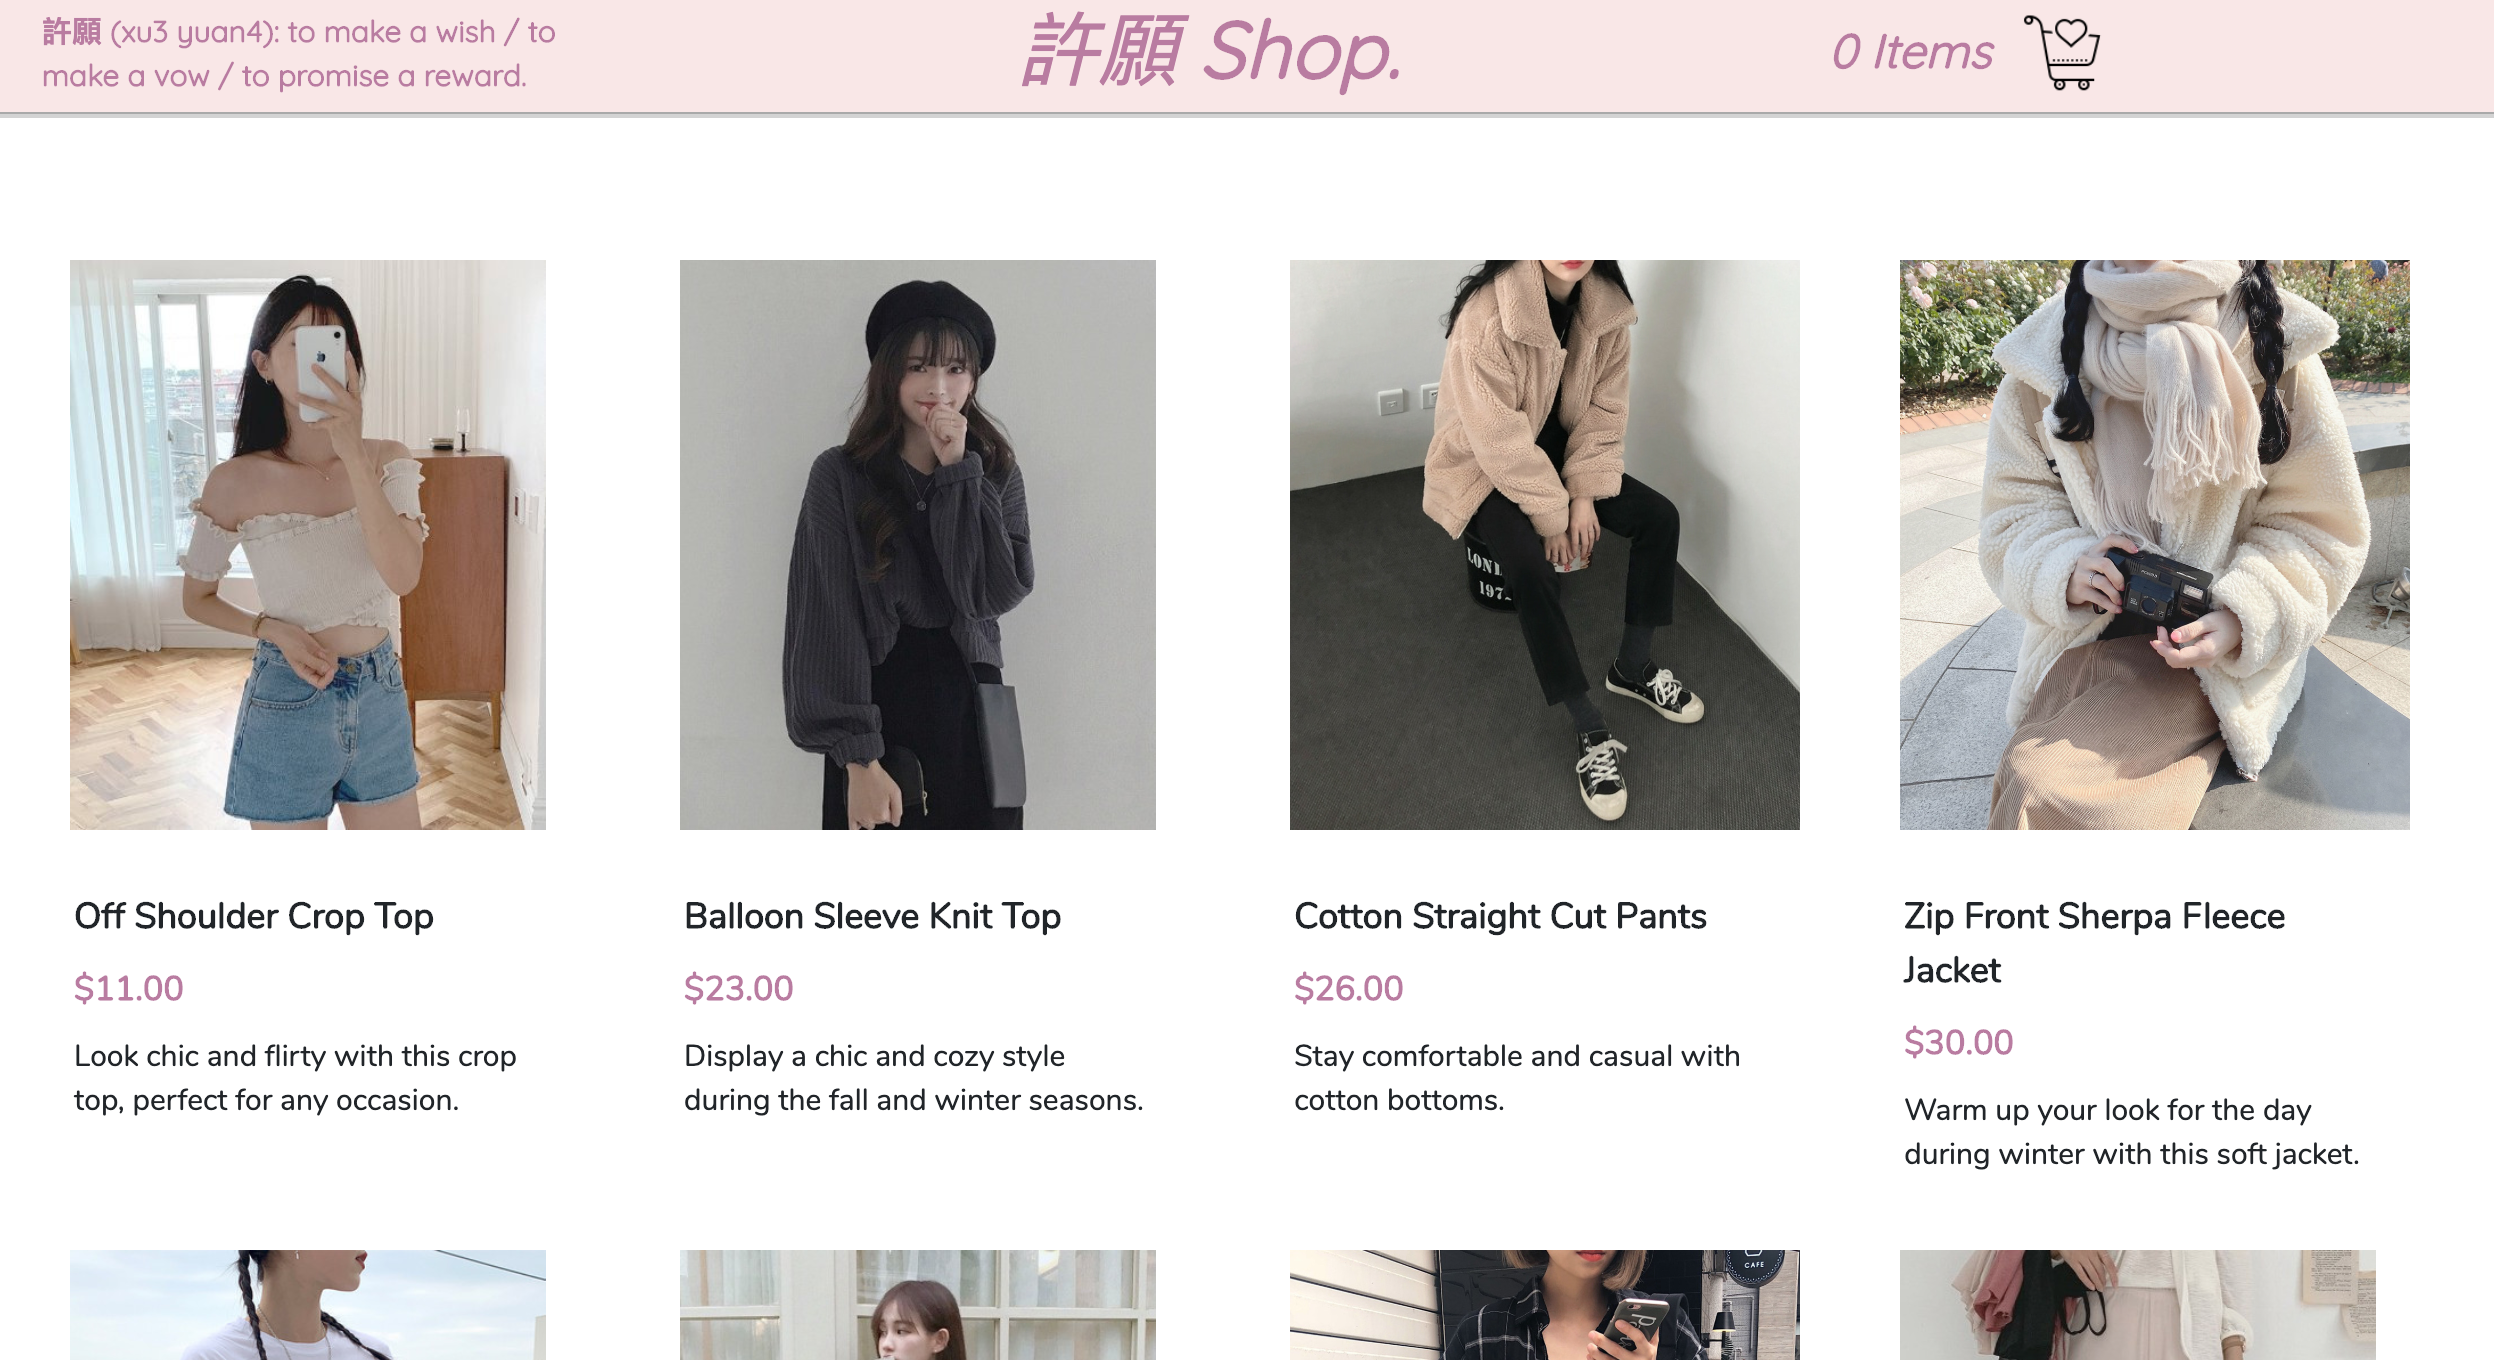
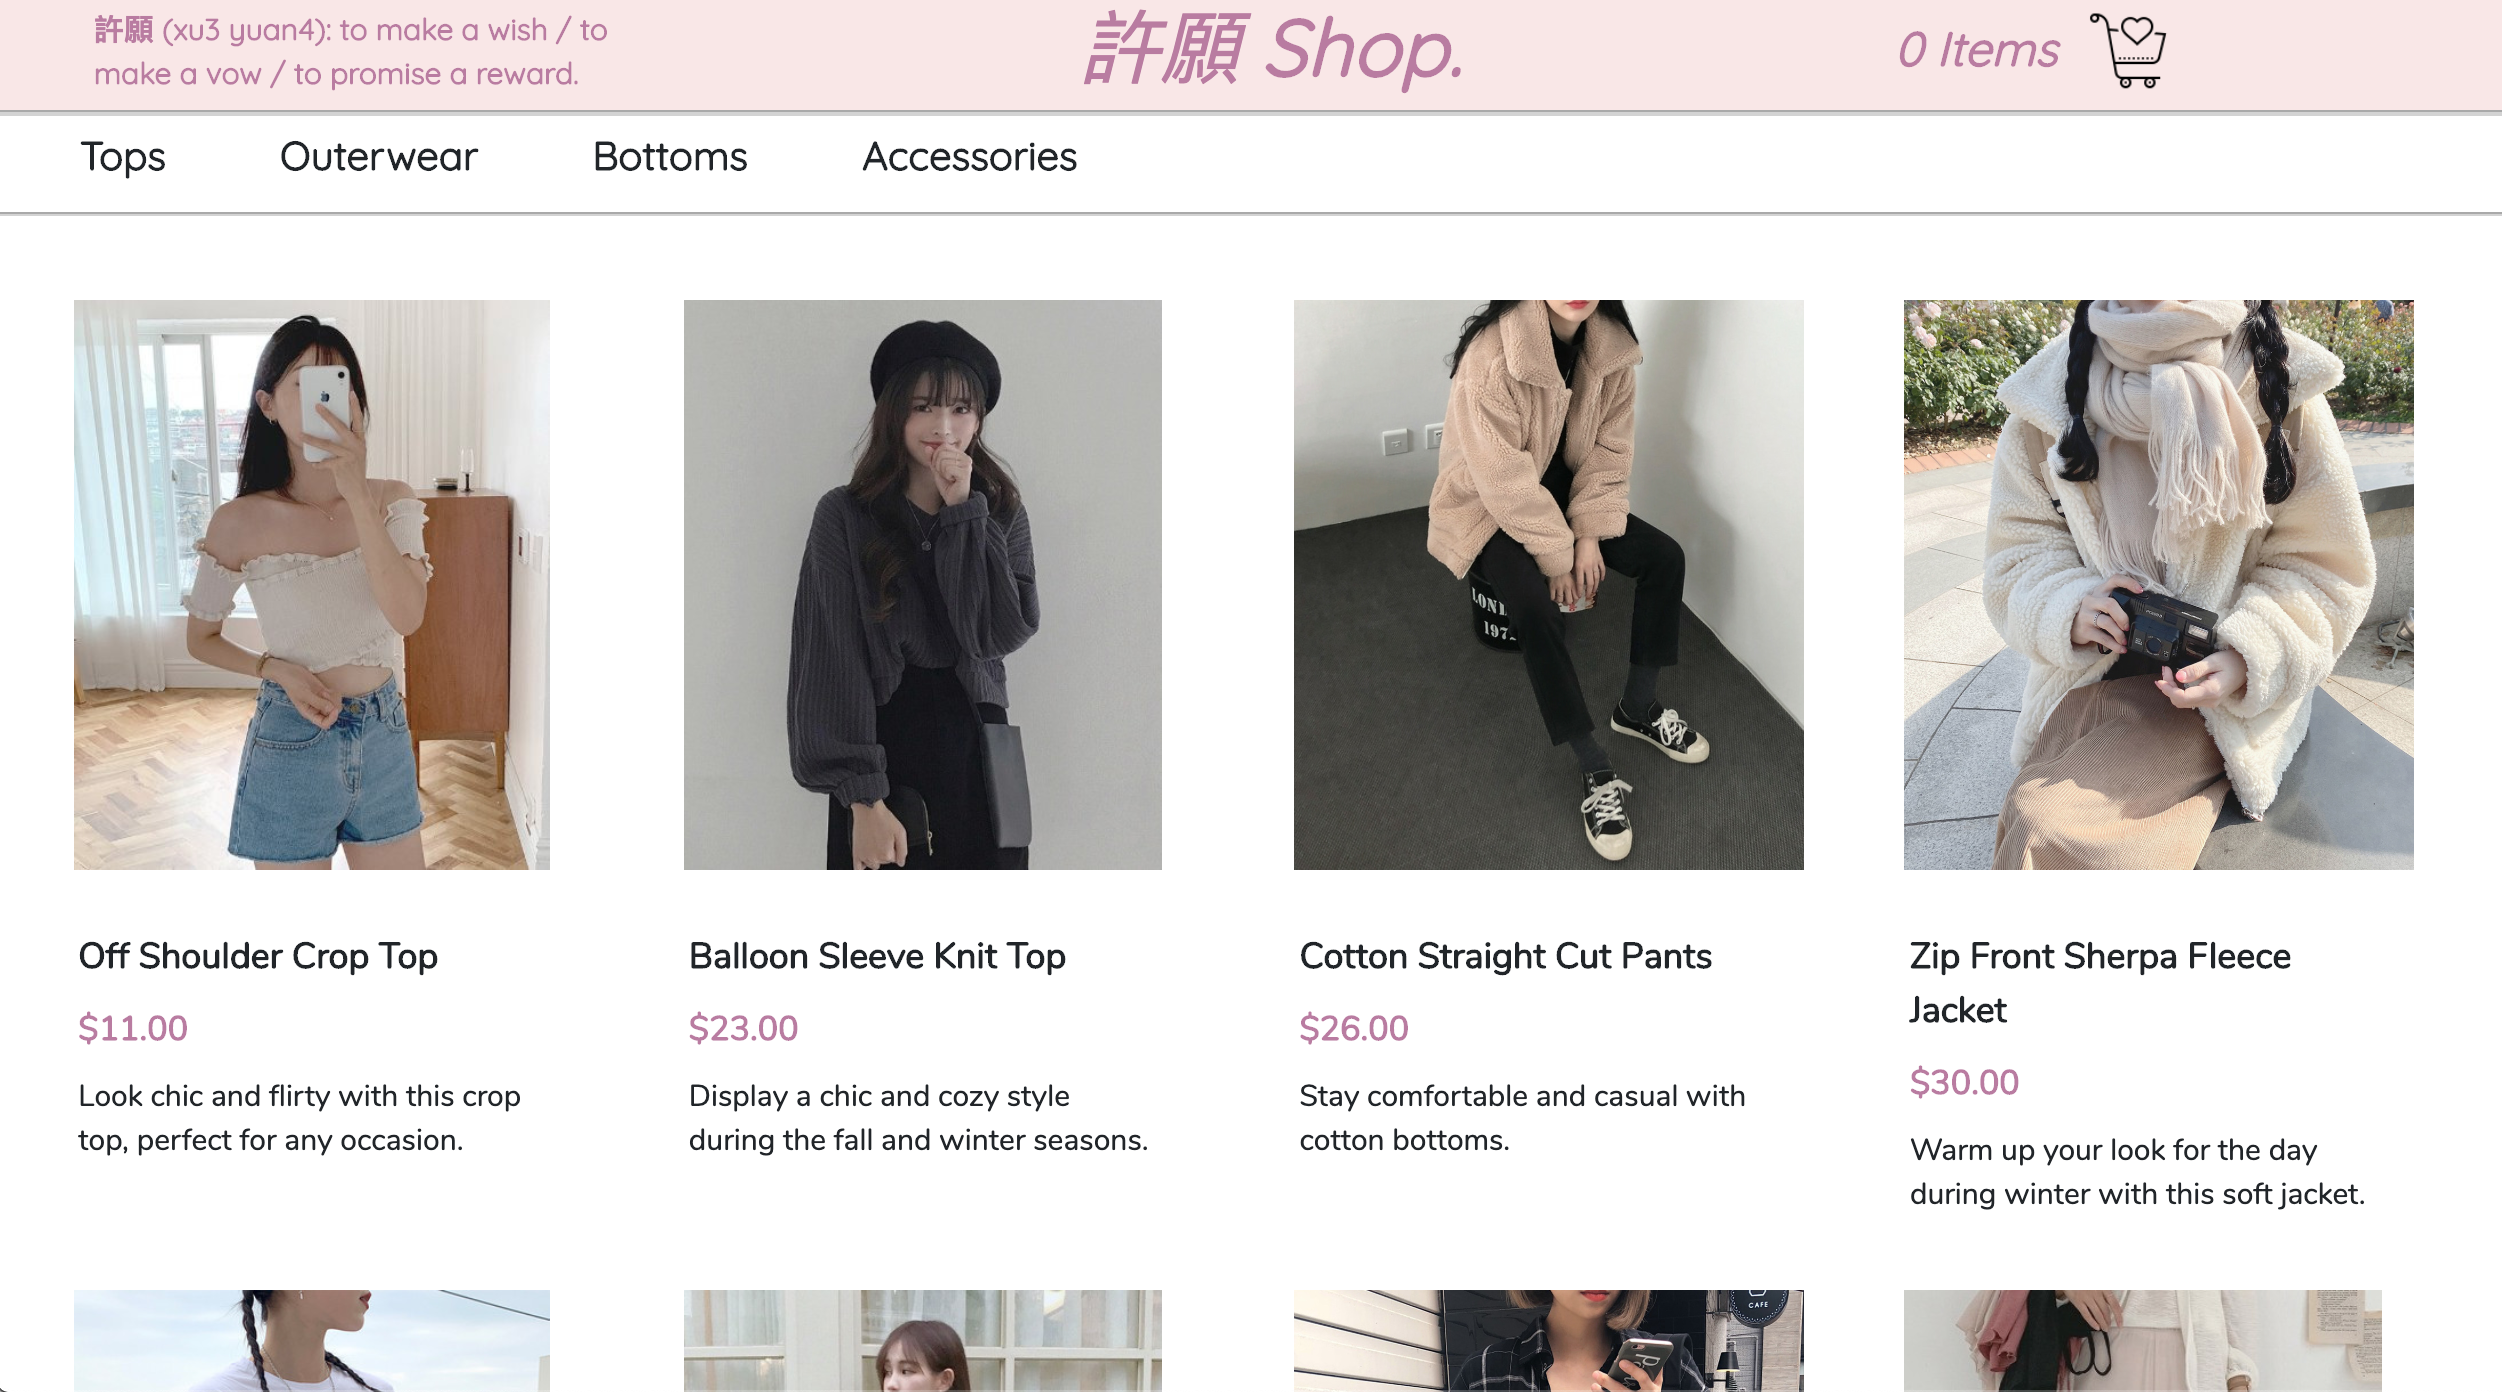
updated styling on checkout form, also added nav bar with links and updated README.md

diff --git a/client/components/cartsummary.jsx b/client/components/cartsummary.jsx
@@ -4,8 +4,18 @@ import CartSummaryItem from './cart-summary-item';
 class CartSummary extends React.Component {
   constructor(props) {
     super(props);
+    this.state = {
+      cartItems: []
+    };
     this.switchView = this.switchView.bind(this);
     this.getCheckout = this.getCheckout.bind(this);
+    this.deleteItem = this.deleteItem.bind(this);
+  }
+
+  componentDidMount() {
+    this.setState({
+      cartItems: this.props.cartItems
+    });
   }
 
   switchView() {
@@ -16,14 +26,27 @@ class CartSummary extends React.Component {
     this.props.setView('checkout', {});
   }
 
+  deleteItem(itemID) {
+    let copy = this.state.cartItems.filter(item => {
+      const copyItems = Object.assign({}, item);
+      if (copyItems['ID'] === itemID) {
+        return false;
+      }
+      return true;
+    });
+    fetch('/api/cart_delete.php', { method: 'DELETE', body: JSON.stringify(itemID), headers: { 'Content-Type': 'application/json' } })
+      .then(this.setState({ cartItems: copy }))
+      .catch(err => { console.error('There was an error:', err); });
+  }
+
   render() {
     let initialPrice = (0).toFixed(2);
     let totalPrice = 0;
-    this.props.cartItems.map(individualPrice => {
+    this.state.cartItems.map(individualPrice => {
       totalPrice += Number.parseFloat(individualPrice.Price);
     });
     let totalPriceRounded = totalPrice.toFixed(2) / Math.pow(10, 2);
-    if (this.props.cartItems.length === 0) {
+    if (this.state.cartItems.length === 0) {
       return (
         <>
         <div>
@@ -36,10 +59,10 @@ class CartSummary extends React.Component {
         </>
       );
     } else {
-      let cartItem = this.props.cartItems.map(item => {
+      let cartItem = this.state.cartItems.map(item => {
         return (
           <CartSummaryItem key={item['ID']}
-            item={item} setView={this.setView} />
+            item={item} setView={this.setView} deleteItem={this.deleteItem}/>
         );
       });
       return (
@@ -48,13 +71,13 @@ class CartSummary extends React.Component {
           <span className="returnCatalog" onClick={this.switchView}> &#8592; Back To Catalog</span>
         </div>
         <div className="row">
-          <h2 className="ml-5">My Cart</h2>
+          <h2 className="cart-title">My Cart</h2>
         </div>
         <div>{cartItem}</div>
         <div className="row">
-          <h3 className="col-4 ml-5 item-total align-self-center">Item Total: {'$' + totalPriceRounded}</h3>
-          <span className="col-md-4 align-self-center">
-            <button type="button" className="btn btn-primary checkout" onClick={this.getCheckout}>Checkout</button>
+          <h3 className="col-4 ml-5 item-total align-self-center">Item Total: {'$' + totalPriceRounded + '.00'}</h3>
+          <span className="col-md-4 align-self-end ml-5">
+            <button type="button" className="btn checkout" onClick={this.getCheckout}>Checkout</button>
           </span>
         </div>
         </>

diff --git a/server/public/style.css b/server/public/style.css
@@ -2,6 +2,7 @@
 
 body {
   font-family: 'Nunito', sans-serif;
+  overflow-x: hidden;
 }
 
 h1 {
@@ -21,7 +22,6 @@ header {
   background-color: #F9E7E7;
   border-bottom: 1px solid darkgray;
   box-shadow: 0px 2px rgb(211, 211, 211);
-  margin-bottom: 50px;
 }
 
 .header-title, .header-definition {
@@ -31,10 +31,33 @@ header {
   color: #BA7BA1;
 }
 
+.header-title:hover {
+  cursor: pointer;
+}
+
 .header-definition {
   font-style: normal;
   font-size: 15px;
   margin-top: 5px;
+}
+
+.nav-bar {
+  margin-top: 2px;
+  border-bottom: 1px solid darkgray;
+  box-shadow: 0px 1px rgb(211, 211, 211);
+  margin-bottom: 20px;
+}
+
+.nav-link {
+  display: inline-block;
+  font-family: 'Quicksand', sans-serif;
+  font-weight: bold;
+  margin-left: 25px;
+}
+
+.nav-link:hover {
+  cursor: pointer;
+  color: #BA7BA1;
 }
 
 .square {
@@ -80,12 +103,21 @@ header {
 
 .item-image {
   height: 250px;
-  width: 280px;
+  width: 260px;
   padding-top: 20px;
+}
+
+.item-count {
+  display: block;
+  color: #BA7BA1;
+  margin-bottom: 10px;
+  font-weight: bold;
 }
 
 .item-total{
   padding-top: 50px;
+  font-weight: bold;
+  color: #BA7BA1;
 }
 
 .product-title {
@@ -120,8 +152,9 @@ header {
 }
 
 .product-details-image {
-  width: 88%;
-  padding: 5px;
+  width: 290px;
+  height: 290px;
+  padding: 25px;
 }
 
 .price {
@@ -160,6 +193,10 @@ header {
 .returnCatalog {
   font-size: 20px;
   margin-left: 5%;
+  border: 1px solid rgb(199, 199, 199);
+  border-radius: 5px;
+  padding: 5px;
+  box-shadow: 1px 1px 1px lightgray;
 }
 
 .returnCatalog:hover {
@@ -176,12 +213,37 @@ header {
   margin-top: 20px;
 }
 
+.cart-title {
+  color: #BA7BA1;
+  margin-left: 5%;
+  font-weight: bold;
+}
+
+.delete-cart {
+  display: block;
+  color: #BA7BA1;
+  font-size: 17px;
+  margin-top: 10px;
+}
+
+.delete-cart:hover {
+  cursor: pointer;
+  color: red;
+}
+
 .checkout {
-  padding: 15px;
+  padding: 12px;
+  background-color: #BA7BA1;
+  color: white;
+}
+
+.checkout:hover {
+  color: rgb(255, 230, 255);
+  border: 1px 1px solid gray;
 }
 
 .checkout-total {
-  color: gray;
+  color: #BA7BA1;
   margin-top: 10px;
 }
 

diff --git a/client/components/header.jsx b/client/components/header.jsx
@@ -4,18 +4,23 @@ class Header extends React.Component {
   constructor(props) {
     super(props);
     this.getSummary = this.getSummary.bind(this);
+    this.switchView = this.switchView.bind(this);
   }
 
   getSummary() {
     this.props.setView('cart', {});
   }
 
+  switchView() {
+    this.props.setView('catalog', {});
+  }
+
   render() {
     return (
       <header>
         <div className="row">
-          <div className="col-3 ml-4 mr-5 align-self-start header-definition">許願 (xu3 yuan4): to make a wish / to make a vow / to promise a reward.</div>
-          <h1 className="col-4 ml-3 mr-5 align-self-start header-title">許願 Shop.</h1>
+          <div className="col-3 ml-5 mr-5 align-self-start header-definition">許願 (xu3 yuan4): to make a wish / to make a vow / to promise a reward.</div>
+          <h1 className="col-4 ml-3 mr-5 align-self-start header-title" onClick={this.switchView}>許願 Shop.</h1>
           <div className="col-2 ml-5 align-self-end cart-header">
             <h4 className="row align-items-center header-title" onClick={this.getSummary}>{this.props.cartItemCount + ' Items'}
               <img src="https://img.icons8.com/dotty/80/000000/favorite-cart.png" className="shopping-cart"></img>

diff --git a/client/components/cart-summary-item.jsx b/client/components/cart-summary-item.jsx
@@ -3,18 +3,22 @@ import React from 'react';
 function CartSummaryItem(props) {
   let price = Number.parseFloat(props.item.Price);
   let priceRounded = price / Math.pow(10, 2);
+  let count = Number.parseFloat(props.item.count);
+  let productID = Number.parseFloat(props.item.ID);
   return (
     <>
     <div className="cart-square row">
-      <div className="col-12 col-md-6">
-        <span className="ml-4">
+      <div className="col-12 col-md-4">
+        <span className="ml-5">
           <img src={props.item.Image} className="item-image"></img>
         </span>
       </div>
       <div className="col-6 col-md-6 align-self-center">
-        <h3>{props.item.Name}</h3>
-        <span className="price">{'$' + priceRounded}</span>
+        <h4>{props.item.Name}</h4>
+        <span className="price">{'$' + priceRounded + '.00'}</span>
+        <span className="item-count">Quantity: {count}</span>
         <span>{props.item['Short Description']}</span>
+        <span className="delete-cart" onClick={() => { props.deleteItem(productID); }}>&times; Remove from cart</span>
       </div>
     </div>
     </>

diff --git a/client/components/checkout-form.jsx b/client/components/checkout-form.jsx
@@ -63,7 +63,7 @@ class CheckoutForm extends React.Component {
       <div>
         <h2 className="ml-5">Checkout</h2>
       </div>
-      <h4 className="ml-5 checkout-total">Order Total: {'$' + totalPriceRounded}</h4>
+      <h4 className="ml-5 checkout-total">Order Total: {'$' + totalPriceRounded + '.00'}</h4>
       <div className="form-container">
         <form className="col-8">
           <h5>Name</h5>
@@ -79,7 +79,7 @@ class CheckoutForm extends React.Component {
           <span className="returnCatalog" onClick={this.switchView}> &#8592; Continue Shopping</span>
         </div>
         <span className="col-md-4 align-self-center">
-          <button type="button" className="btn btn-primary checkout" onClick={this.handleSubmit}>Place Order</button>
+          <button type="button" className="btn checkout" onClick={this.handleSubmit}>Place Order</button>
         </span>
       </div>
       </>

diff --git a/client/components/app.jsx b/client/components/app.jsx
@@ -1,6 +1,7 @@
 import React from 'react';
 import ProductList from './product-list';
 import Header from './header';
+import NavBar from './navbar';
 import ProductDetails from './product-details';
 import CartSummary from './cartsummary';
 import CheckoutForm from './checkout-form';
@@ -99,6 +100,7 @@ class App extends React.Component {
     return (
       <>
       <Header cartItemCount={cartCount} setView={this.setView} params={this.state.view.params}/>
+      <NavBar setView={this.setView} params={this.state.view.params}/>
       {product}
       {cartSummary}
       {checkoutForm}

diff --git a/client/components/navbar.jsx b/client/components/navbar.jsx
@@ -1,0 +1,23 @@
+import React from 'react';
+
+class NavBar extends React.Component {
+  constructor(props) {
+    super(props);
+    this.setView = this.props.setView;
+  }
+
+  render() {
+    return (
+      <div className="row nav-bar">
+        <div className="col align-items-start">
+          <h5 className="nav-link">Tops</h5>
+          <h5 className="nav-link">Outerwear</h5>
+          <h5 className="nav-link">Bottoms</h5>
+          <h5 className="nav-link">Accessories</h5>
+        </div>
+      </div>
+    );
+  }
+}
+
+export default NavBar;

diff --git a/server/public/api/cart_delete.php b/server/public/api/cart_delete.php
@@ -1,0 +1,16 @@
+<?php
+
+require_once('functions.php');
+
+$data = json_decode(file_get_contents('php://input'), 1);
+
+$id = intval($data);
+
+$query = "DELETE FROM `cartItems` WHERE `productID` = $id";
+
+$result = mysqli_query($conn, $query);
+
+
+if (!$result) {
+  throw new Exception("The connection failed or no data was received!",  mysqli_connect_error());
+}
